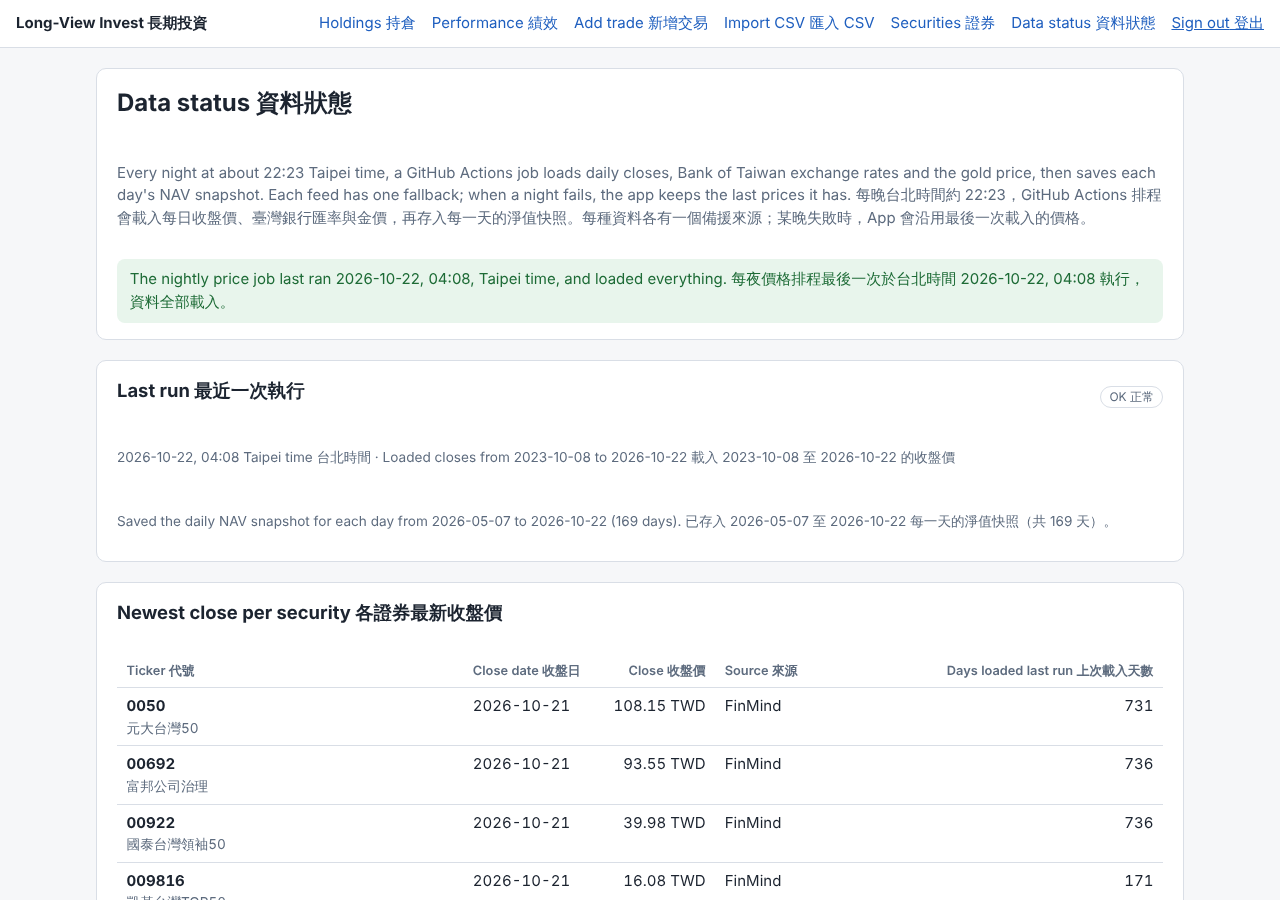
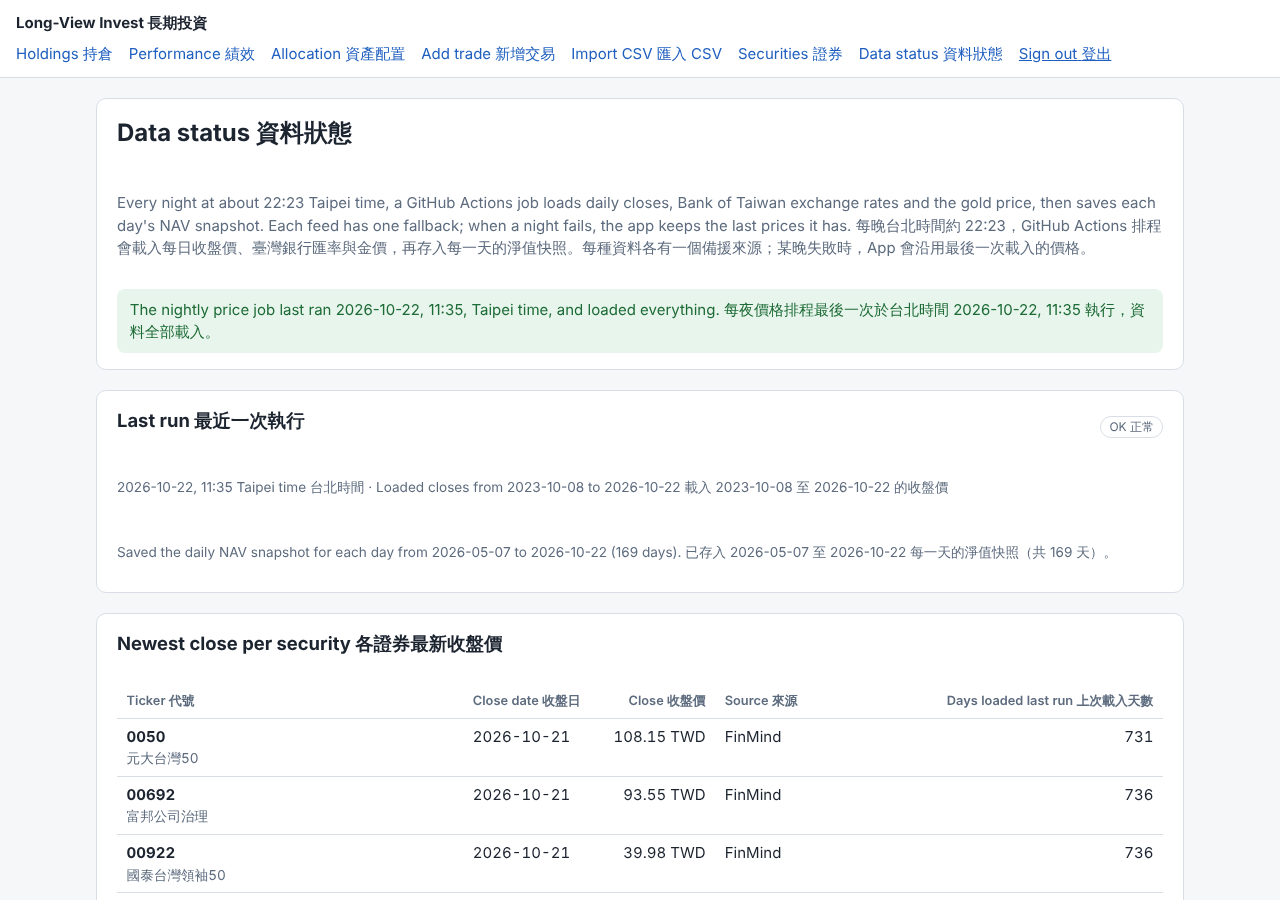
Name every class on the drift axis on a phone; refresh README images
- The drift chart prints every class name, wrapped, with rows tall enough
  for three lines; on a phone one label was being dropped
- README images from the full end-to-end run: holdings and data status
  after the live nightly job, and the new allocation page

Claude-Session: https://claude.ai/code/session_017YS6qWTrWDxK6iJxvtdga9

diff --git a/components/allocation-charts.tsx b/components/allocation-charts.tsx
@@ -65,7 +65,7 @@ function driftOption(rows: readonly DriftRow[], colors: Colors, width: number): 
   };
   return {
     textStyle: { fontFamily: colors.font },
-    grid: { left: 4, right: 12, top: 4, bottom: 4 },
+    grid: { left: 4, right: 12, top: 12, bottom: 4 },
     tooltip: {
       ...tooltipStyle(colors, 'item'),
       formatter: (params) => {
@@ -93,7 +93,8 @@ function driftOption(rows: readonly DriftRow[], colors: Colors, width: number): 
       data: rows.map((row) => `${row.label.en}\n${row.label.zh}`),
       axisTick: { show: false },
       axisLine: { lineStyle: { color: colors.grid } },
-      axisLabel: { color: colors.muted, width: narrow ? 96 : 170, overflow: 'break', lineHeight: 14 },
+      // Every class named, wrapping on a phone; rows are tall enough for three lines.
+      axisLabel: { color: colors.muted, interval: 0, width: narrow ? 120 : 170, overflow: 'break', lineHeight: 14 },
     },
     series: [bars, edges],
   };
@@ -113,7 +114,7 @@ export function DriftChart({ rows, label }: { rows: readonly DriftRow[]; label: 
           { label: { en: 'F8 band', zh: 'F8 門檻' }, color: 'var(--muted)', shape: 'line' },
         ]}
       />
-      <div ref={ref} className="chart chart-tall" style={{ height: `${Math.max(240, rows.length * 44 + 40)}px` }} role="img" aria-label={bi(label)} />
+      <div ref={ref} className="chart chart-tall" style={{ height: `${Math.max(240, rows.length * 52 + 48)}px` }} role="img" aria-label={bi(label)} />
     </figure>
   );
 }
